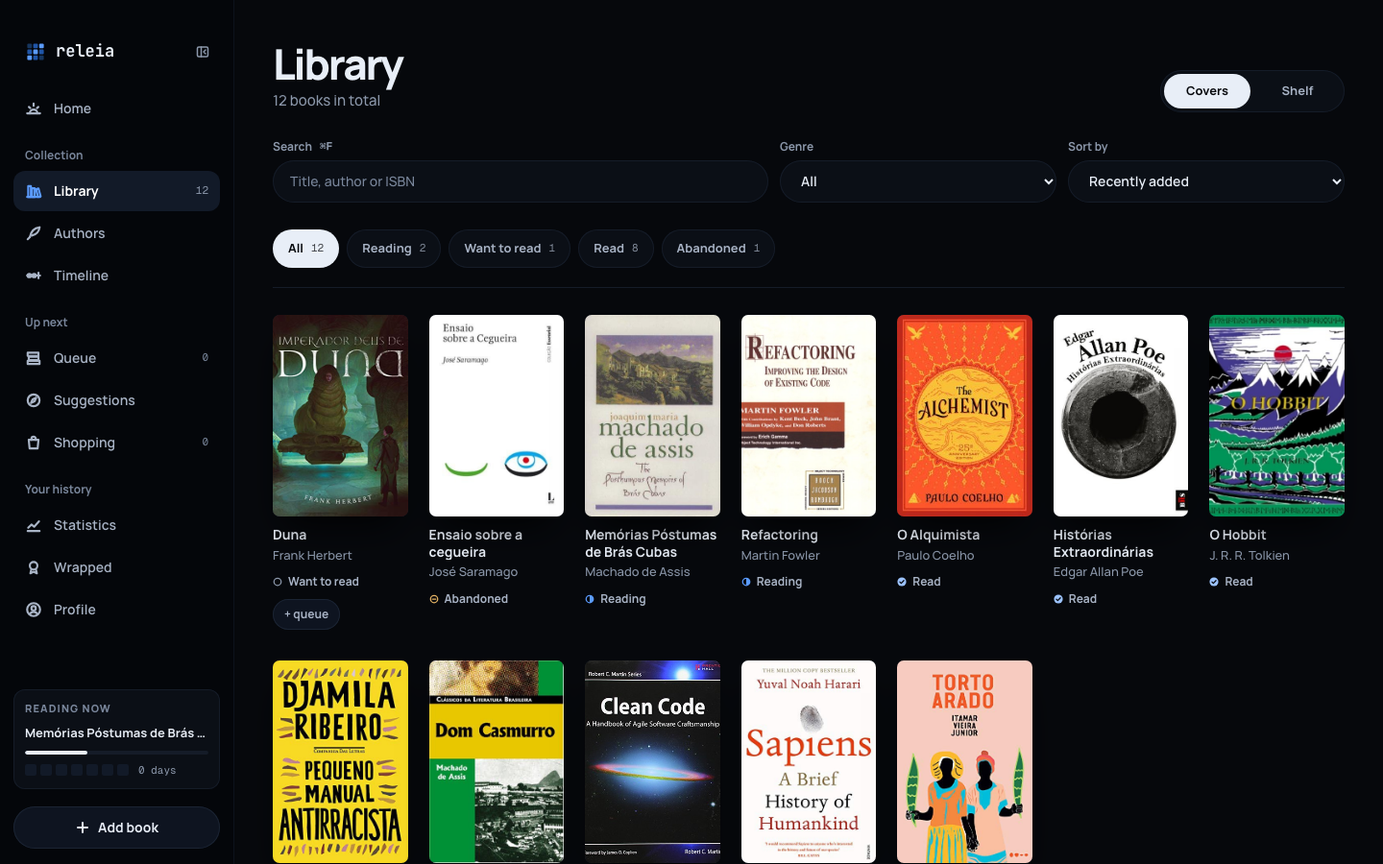
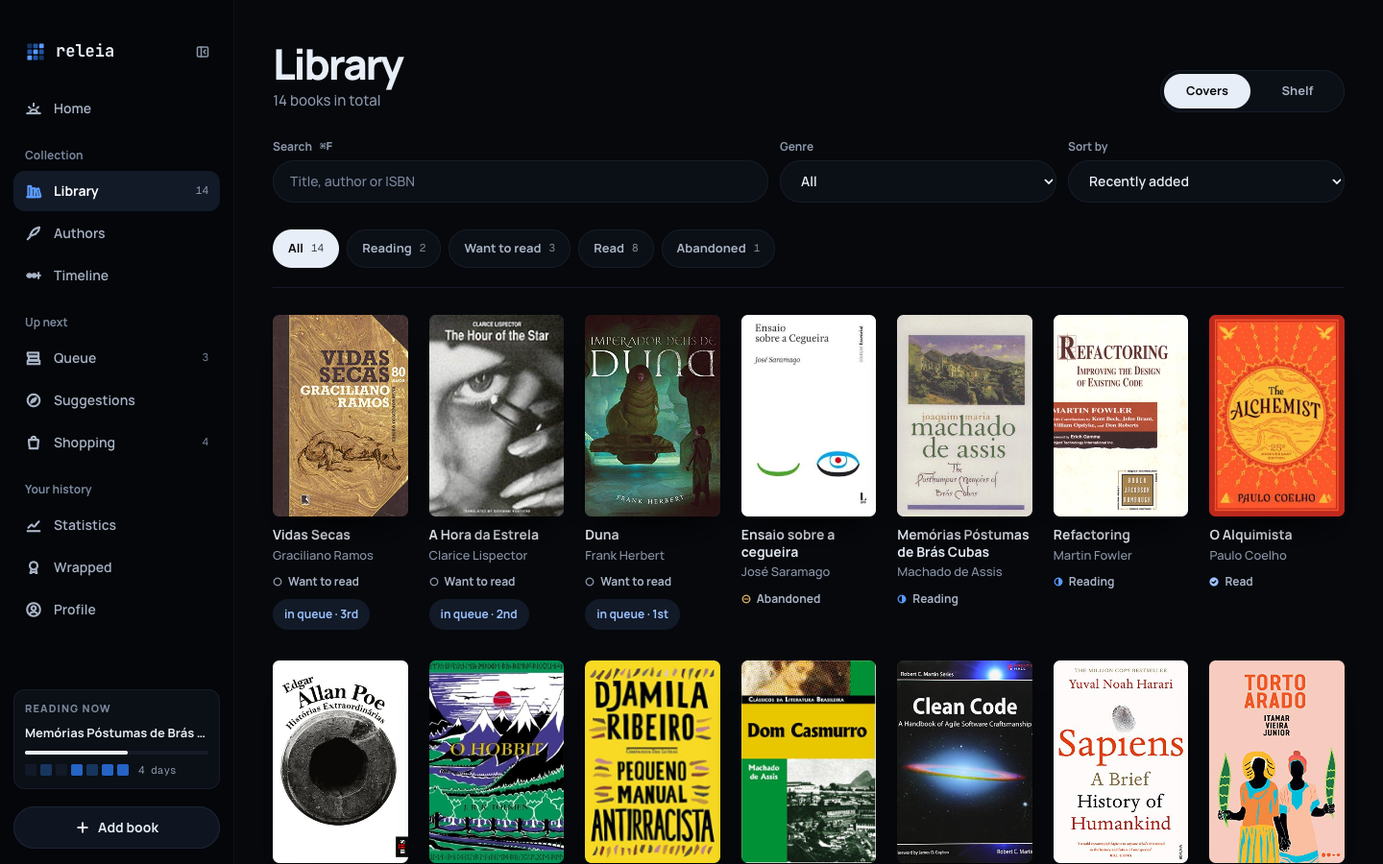
docs: refresh the readmes and screenshots
Claude-Session: https://claude.ai/code/session_01CkT8mSgpEoopELoz4qsgHy

diff --git a/README.pt-BR.md b/README.pt-BR.md
@@ -17,51 +17,55 @@
 </p>
 
 <p align="center">
-  <a href="README.md">English</a> · Português
+  <a href="README.md">English</a> · Português · <a href="https://enzobreisc.github.io/releia/">Demonstração online</a>
 </p>
 
 ![Demonstração do releia: buscar um livro, adicioná-lo à biblioteca, ver a estante e abrir as estatísticas](docs/demo.gif)
 
+## Demonstração online
+
+**[Abrir a demonstração web](https://enzobreisc.github.io/releia/)**: a mesma interface rodando no navegador, com uma biblioteca de exemplo e sem nada para instalar. Também tem layout de celular para telas estreitas.
+
+- Os fluxos principais funcionam: biblioteca e estantes, adicionar livros, sessões de leitura, anotações, estatísticas, linha do tempo, fila, lista de compras e sugestões. As sugestões de exemplo já vêm prontas.
+- Sua biblioteca fica no armazenamento local deste navegador e nunca é enviada a um servidor; "Restaurar dados" traz a biblioteca de exemplo de volta. As buscas de livros ainda vão do navegador para a Open Library e a BrasilAPI.
+- Algumas coisas só funcionam no app: a janela da barra de menu, o registro pelo celular via Tailscale, a ordenação com IA local, as buscas no Google Books e a consulta de preços.
+- Como funciona: a demonstração reaproveita as páginas React de `resources/js`. Os presenters do Laravel foram portados para TypeScript (`demo/src/presenters`) e conferidos contra páginas de referência exportadas do app em PHP, e os fluxos do usuário (adicionar, ler, comprar, desfazer) são reproduzidos a partir de cenários gravados no app. Detalhes em [demo/README.md](demo/README.md) (em inglês).
+
 ## Funcionalidades
 
-- **Adicione livros em segundos** por ISBN ou título: metadados e capas vêm da Open Library, do Google Books e da BrasilAPI, e ficam em cache local.
-- **Registre sessões de leitura** pela janela principal ou por uma janela na barra de menu, aberta com um atalho global (`⌘⇧L`), sem sair do que você está fazendo.
+- **Adicione livros em segundos** por ISBN ou título: metadados e capas vêm da Open Library, do Google Books e da BrasilAPI, e ficam em cache local. Uma capa também pode ser tirada de um link de produto da Amazon.
+- **Registre sessões de leitura** pela janela principal ou por uma janela na barra de menu, aberta com um atalho global (`⌘⇧L`, por padrão), sem sair do que você está fazendo.
 - **Registre pelo celular**: o mesmo registro rápido é instalado na tela de início como web app e fala com o Mac pelo [Tailscale](https://tailscale.com), usando o mesmo banco, com um widget na tela de bloqueio que conta a sessão em andamento ([configuração](docs/mobile-quick-log.md)).
 - **Biblioteca** em grade de capas ou numa estante de prateleiras nomeadas: uma configuração em etapas separa os livros por editora, autor, gênero ou série (vários grupos podem dividir uma prateleira) e mostra uma prévia para aprovar. As lombadas partem da capa real da edição, com um visual por editora, os livros novos entram na prateleira do seu grupo, e dá para reorganizar prateleiras e livros à mão.
 - **Página do livro** com todas as leituras, suas sessões, notas em Markdown e uma resenha por leitura; releituras são registradas separadamente.
 - **Estatísticas**: livros e páginas por mês, ritmo, previsão da meta anual, gêneros e autores mais lidos e um calendário de leitura.
 - **Wrapped**: um resumo do ano que pode ser exportado como imagem.
-- **Fila, lista de compras e sugestões**: planeje a próxima leitura, acompanhe o menor preço de uma edição desejada e receba sugestões, cada uma com o motivo, a partir dos livros que você avaliou bem, dos que quer ler e da lista de compras, ou busque qualquer autor, título ou assunto.
+- **Fila, lista de compras e sugestões**: planeje a próxima leitura, acompanhe o menor preço de uma edição desejada no Estante Virtual e receba sugestões, cada uma com o motivo, a partir dos livros que você avaliou bem, dos que quer ler e da lista de compras, ou busque qualquer autor, título ou assunto.
 - **Autores e linha do tempo**: estatísticas de leitura por autor, com fotos da Open Library ou da Wikipedia, e uma linha do tempo das leituras por ano.
 - **Interface bilíngue** em português e inglês, incluindo datas, números e valores.
 - **Offline primeiro**: tudo fica num banco SQLite local e as capas são baixadas para o disco, então o app continua funcionando sem conexão.
 
 ## Telas
 
-| Biblioteca                                  | Livro                               |
-| ------------------------------------------- | ----------------------------------- |
-| ![Biblioteca](docs/screenshots/library.png) | ![Livro](docs/screenshots/book.png) |
+| Biblioteca                                  | Estante                                     |
+| ------------------------------------------- | ------------------------------------------- |
+| ![Biblioteca](docs/screenshots/library.png) | ![Estante](docs/screenshots/bookcase.png)   |
+| ![Livro](docs/screenshots/book.png)         | ![Estatísticas](docs/screenshots/stats.png) |
+| ![Wrapped](docs/screenshots/wrapped.png)    | ![Início](docs/screenshots/home.png)        |
+| ![Perfil](docs/screenshots/profile.png)     |                                             |
 
-| Estatísticas                                | Wrapped                                  |
-| ------------------------------------------- | ---------------------------------------- |
-| ![Estatísticas](docs/screenshots/stats.png) | ![Wrapped](docs/screenshots/wrapped.png) |
-
-| Início                               | Perfil                                  |
-| ------------------------------------ | --------------------------------------- |
-| ![Início](docs/screenshots/home.png) | ![Perfil](docs/screenshots/profile.png) |
-
-<sub>As telas usam a biblioteca de demonstração (`php artisan db:seed --class=DemoSeeder`).</sub>
+<sub>As telas usam a biblioteca de exemplo da demo web (`demo/export/seed.php`).</sub>
 
 ## Destaques técnicos
 
 - **Um app Laravel entregue como app nativo.** O [NativePHP](https://nativephp.com) empacota o PHP e o app no Electron, então o mesmo código renderiza a interface em Inertia + React e controla a janela, o ícone da barra de menu e o atalho global ([`app/Native/QuickLog.php`](app/Native/QuickLog.php)).
 - **Uma tela, dois invólucros.** A página de registro rápido roda tanto na janela da barra de menu quanto como PWA instalável no celular: um agente `launchd` a serve pela tailnet usando o arquivo SQLite e o storage do app de desktop, e a página troca para controles do tamanho do toque quando não está dentro do app nativo.
 - **Busca de metadados atrás de um único contrato.** Cada fonte implementa [`MetadataProvider`](app/Services/BookLookup/MetadataProvider.php). O [`BookLookupService`](app/Services/BookLookupService.php) consulta a Open Library primeiro e usa a BrasilAPI e o Google Books para completar ou como reserva, com cache dos resultados; uma nova fonte é só uma classe. As edições das editoras que já estão na sua biblioteca aparecem e são sugeridas primeiro.
-- **Sugestões explicáveis.** O [`RecommendationService`](app/Services/RecommendationService.php) parte dos livros que você avaliou bem e do que você quer ler ou comprar, busca outras obras dos mesmos autores, mantém no máximo três por autor, traz de volta no máximo uma sugestão ignorada por busca e ordena os candidatos com um [`CandidateRanker`](app/Services/Recommendation/CandidateRanker.php) plugável. Cada sugestão traz o motivo, e as buscas têm limite de tempo e cache.
+- **Sugestões explicáveis.** O [`RecommendationService`](app/Services/RecommendationService.php) parte dos livros que você avaliou bem e do que você quer ler ou comprar, busca outras obras dos mesmos autores, mantém no máximo três obras do mesmo autor por busca, traz de volta no máximo uma sugestão ignorada por busca e ordena os candidatos com um [`CandidateRanker`](app/Services/Recommendation/CandidateRanker.php) plugável. Cada sugestão traz o motivo, e as buscas têm limite de tempo e cache.
 - **Controllers enxutos, serviços ricos.** As regras de negócio ficam nos serviços, e os presenters definem as props que cada página Inertia recebe.
 - **Páginas enxutas, componentes pequenos.** Cada página React só compõe componentes que ficam numa pasta com o nome dela; o estado fica em hooks `use-*` e os helpers puros em `lib/`, então nenhuma página vira um arquivo de mil linhas.
 - **i18n com o texto original como chave.** Os textos são escritos em português e traduzidos em [`lang/en.json`](lang/en.json); o type check falha se faltar uma chave no React, e um teste falha se faltar uma chave no PHP.
-- **Qualidade garantida no CI.** Testes de feature com Pest, PHPStan, Pint, lint e formatação com Vite+ e `tsc` rodam a cada push.
+- **Qualidade garantida no CI.** Pint, PHPStan, testes de feature com Pest, lint e formatação com Vite+ e `tsc` rodam a cada push para `main` e em cada pull request. A demonstração web é gerada e publicada no GitHub Pages a cada push para `main`.
 
 ## Stack
 
@@ -93,7 +97,7 @@ Sem chave, o Google Books divide uma cota diária entre todos e costuma recusar 
 
 ## Ordenação com IA local (experimental)
 
-As sugestões também podem ser ordenadas pela proximidade com os livros que você avaliou, usando embeddings calculados no seu Mac pelo [Ollama](https://ollama.com). É opcional, vem desligada e nada da sua biblioteca sai da máquina: o Ollama roda em `localhost`, e a Open Library continua recebendo apenas as buscas por autor e assunto.
+As sugestões também podem ser ordenadas pela proximidade com os livros que você avaliou, usando embeddings calculados no seu Mac pelo [Ollama](https://ollama.com). É opcional, vem desligada e nada da sua biblioteca sai da máquina: o Ollama roda em `localhost` por padrão, e a Open Library continua recebendo apenas as buscas por autor e assunto.
 
 ```bash
 brew install ollama
@@ -102,16 +106,6 @@ ollama pull nomic-embed-text
 ```
 
 Depois ligue **Ordenar com IA local** na página de Sugestões. É experimental: por enquanto muda pouco a ordem, e o ganho ainda não foi medido. Sem o Ollama, as sugestões continuam funcionando, ordenadas pela pontuação.
-
-## Demonstração web
-
-Uma versão no navegador, com uma biblioteca de exemplo, está publicada em https://enzobreisc.github.io/releia/.
-
-- Os fluxos principais funcionam no navegador: a biblioteca e as estantes, adicionar livros, sessões de leitura, anotações, estatísticas, linha do tempo, fila, lista de compras e sugestões.
-- Os dados ficam no seu navegador. Nada do que você adiciona é enviado.
-- A ordenação com IA local, as buscas no Google Books e a consulta de preços funcionam só no app.
-
-Como os dados da demonstração são exportados, testados e gerados está descrito em [demo/README.md](demo/README.md) (em inglês).
 
 ## Desenvolvimento
 
@@ -131,12 +125,18 @@ php artisan db:seed --class=DemoSeeder
 
 Em desenvolvimento (`APP_DEBUG=true`) o app nativo usa `database/nativephp.sqlite`, separado do `database/database.sqlite` usado pelo `composer dev`. Ele é criado e migrado na primeira execução; depois de criar migrations novas, rode `php artisan native:migrate`.
 
-| Comando                        | O que roda                         |
-| ------------------------------ | ---------------------------------- |
-| `composer test`                | Pint, PHPStan e Pest               |
-| `npm run check`                | lint e formatação do front-end     |
-| `npm run types:check`          | checagem de tipos do TypeScript    |
-| `php artisan native:build mac` | gera o `.app`, o `.dmg` e o `.zip` |
+| Comando                                   | O que roda                                                                                        |
+| ----------------------------------------- | ------------------------------------------------------------------------------------------------- |
+| `composer test`                           | Pint, PHPStan e Pest                                                                              |
+| `npm run check`                           | lint e formatação do front-end                                                                    |
+| `npm run types:check`                     | checagem de tipos do TypeScript                                                                   |
+| `php artisan native:build mac`            | gera o `.app`, o `.dmg` e o `.zip`                                                                |
+| `npm run demo:test`                       | testes da demonstração web contra as páginas de referência (rode antes `bash demo/export/run.sh`) |
+| `npm run demo:build`                      | gera a demonstração web em `dist-demo/`                                                           |
+| `php artisan releia:suggestions`          | busca sugestões novas                                                                             |
+| `php artisan releia:embed`                | calcula os vetores da ordenação com IA local (precisa do Ollama)                                  |
+| `php artisan releia:lookup "…"`           | busca metadados de um livro sem salvar                                                            |
+| `php artisan releia:fill-shopping-prices` | busca os preços da lista de compras                                                               |
 
 ## Estrutura
 
@@ -148,14 +148,18 @@ app/
   Models/               Book, Reading, ReadingSession, Note…
   Native/               janela da barra de menu e atalho global
   Services/             regras de domínio: busca, leituras, estatísticas, sugestões…
+    Ai/                 embeddings locais (Ollama) para ordenar as sugestões
     BookLookup/         fontes de metadados (Open Library, Google Books, BrasilAPI)
+    PriceLookup/        preços da lista de compras (Estante Virtual)
     Recommendation/     ordenação das sugestões
+  Console/Commands/     releia:suggestions, releia:embed, releia:lookup…
 resources/js/
   pages/                uma página Inertia por tela, enxuta
   components/           UI compartilhada, mais uma pasta por página (book/, stats/…)
   hooks/                estado e efeitos extraídos dos componentes
   lib/                  helpers puros: formatação, datas, rotas, i18n
 lang/en.json            traduções para inglês
+demo/                   demonstração web: dados de exemplo, páginas de referência, casca do navegador
 tests/Feature/          testes de comportamento por funcionalidade
 ```
 

diff --git a/README.md b/README.md
@@ -17,51 +17,55 @@
 </p>
 
 <p align="center">
-  English · <a href="README.pt-BR.md">Português</a>
+  English · <a href="README.pt-BR.md">Português</a> · <a href="https://enzobreisc.github.io/releia/">Live demo</a>
 </p>
 
 ![releia demo: search a book, add it to the library, browse the shelf and open the statistics](docs/demo.gif)
 
+## Live demo
+
+**[Try the web demo](https://enzobreisc.github.io/releia/)**: the same interface running in your browser against a sample library, with nothing to install. It also has a phone layout for narrow screens.
+
+- The main flows work: library and shelves, adding books, reading sessions, notes, stats, timeline, queue, shopping list and suggestions. The sample suggestions come ready-made.
+- Your library stays in your browser's local storage and is never sent to a server; "Restore data" brings the sample library back. Book searches still go from the browser to Open Library and BrasilAPI.
+- Some things only work in the app: the menu bar window, the phone quick log over Tailscale, local AI ordering, Google Books lookups and price lookups.
+- How it works: the demo reuses the React pages from `resources/js`. The Laravel presenters are ported to TypeScript (`demo/src/presenters`) and checked against golden pages exported from the PHP app, and the user flows (add, read, shop, undo) are replayed from scenarios recorded from the app. Details in [demo/README.md](demo/README.md).
+
 ## Features
 
-- **Add books in seconds** by ISBN or title: metadata and covers come from Open Library, Google Books and BrasilAPI, and are cached locally.
-- **Log reading sessions** from the main window or from a menu bar window opened by a global shortcut (`⌘⇧L`), without leaving what you are doing.
+- **Add books in seconds** by ISBN or title: metadata and covers come from Open Library, Google Books and BrasilAPI, and are cached locally. A cover can also be taken from an Amazon product link.
+- **Log reading sessions** from the main window or from a menu bar window opened by a global shortcut (`⌘⇧L` by default), without leaving what you are doing.
 - **Log from your phone**: the same quick log installs on the home screen as a web app and talks to the Mac over [Tailscale](https://tailscale.com), sharing its database, with a lock screen widget that counts the current session ([setup](docs/mobile-quick-log.md)).
 - **Library** as a cover grid or a bookcase of named shelves: a step-by-step setup splits the books by publisher, author, genre or series (several groups can share a shelf) and shows a preview to approve. Spines are drawn from the real edition's cover with a look per publisher, new books join the shelf of their group, and shelves and books can still be rearranged by hand.
 - **Book page** with every reading, its sessions, Markdown notes and a review per reading; rereads are tracked separately.
 - **Statistics**: books and pages per month, pace, yearly goal forecast, top genres and authors, and a reading calendar heat map.
 - **Wrapped**: a yearly summary that can be exported as an image.
-- **Queue, shopping list and suggestions**: plan what to read next, track the lowest price of a wanted edition, and get suggestions, each with its reason, from the books you rated highly, the ones you want to read and your shopping list, or search any author, title or subject.
+- **Queue, shopping list and suggestions**: plan what to read next, track the lowest price of a wanted edition on Estante Virtual, and get suggestions, each with its reason, from the books you rated highly, the ones you want to read and your shopping list, or search any author, title or subject.
 - **Authors and timeline**: per-author reading stats with photos from Open Library or Wikipedia, and a timeline of readings by year.
 - **Bilingual interface** in Portuguese and English, including dates, numbers and money.
 - **Offline first**: everything lives in a local SQLite database and covers are downloaded to disk, so the app keeps working without a connection.
 
 ## Screenshots
 
-| Library                                  | Book                               |
-| ---------------------------------------- | ---------------------------------- |
-| ![Library](docs/screenshots/library.png) | ![Book](docs/screenshots/book.png) |
+| Library                                  | Bookcase                                   |
+| ---------------------------------------- | ------------------------------------------ |
+| ![Library](docs/screenshots/library.png) | ![Bookcase](docs/screenshots/bookcase.png) |
+| ![Book](docs/screenshots/book.png)       | ![Statistics](docs/screenshots/stats.png)  |
+| ![Wrapped](docs/screenshots/wrapped.png) | ![Home](docs/screenshots/home.png)         |
+| ![Profile](docs/screenshots/profile.png) |                                            |
 
-| Statistics                                | Wrapped                                  |
-| ----------------------------------------- | ---------------------------------------- |
-| ![Statistics](docs/screenshots/stats.png) | ![Wrapped](docs/screenshots/wrapped.png) |
-
-| Home                               | Profile                                  |
-| ---------------------------------- | ---------------------------------------- |
-| ![Home](docs/screenshots/home.png) | ![Profile](docs/screenshots/profile.png) |
-
-<sub>Screenshots use the bundled demo library (`php artisan db:seed --class=DemoSeeder`).</sub>
+<sub>Screenshots use the sample library of the web demo (`demo/export/seed.php`).</sub>
 
 ## Technical highlights
 
 - **A Laravel app shipped as a native desktop app.** [NativePHP](https://nativephp.com) bundles PHP and the app into Electron, so the same codebase renders an Inertia + React UI, owns the window, the menu bar icon and the global shortcut ([`app/Native/QuickLog.php`](app/Native/QuickLog.php)).
 - **One screen, two shells.** The quick log page runs both in the menu bar window and as an installable PWA on the phone: a `launchd` agent serves it over the tailnet against the desktop app's SQLite file and storage, and the page switches to touch-sized controls when it is not inside the native app.
 - **Metadata lookup behind a single contract.** Each source implements [`MetadataProvider`](app/Services/BookLookup/MetadataProvider.php). [`BookLookupService`](app/Services/BookLookupService.php) asks Open Library first and lets BrasilAPI and Google Books fill gaps or act as fallbacks, caching the results, so a new source is one class. Editions from the publishers already in your library are listed and suggested first.
-- **Explainable suggestions.** [`RecommendationService`](app/Services/RecommendationService.php) starts from your highly rated books and from what you want to read or buy, looks for other works by the same authors, keeps at most three per author, brings back at most one ignored suggestion per search, and ranks candidates through a pluggable [`CandidateRanker`](app/Services/Recommendation/CandidateRanker.php). Every suggestion carries the reason it was made, and searches are time-boxed and cached.
+- **Explainable suggestions.** [`RecommendationService`](app/Services/RecommendationService.php) starts from your highly rated books and from what you want to read or buy, looks for other works by the same authors, keeps at most three works by the same author per search, brings back at most one ignored suggestion per search, and ranks candidates through a pluggable [`CandidateRanker`](app/Services/Recommendation/CandidateRanker.php). Every suggestion carries the reason it was made, and searches are time-boxed and cached.
 - **Thin controllers, rich services.** Business rules live in services, and presenters shape the props each Inertia page receives.
 - **Thin pages, small components.** Each React page only composes components that live in a folder named after it; state sits in `use-*` hooks and pure helpers in `lib/`, so no page is a thousand-line file.
 - **i18n where the key is the source text.** Strings are written in Portuguese and translated in [`lang/en.json`](lang/en.json); the type check fails on a missing React key and a feature test fails on a missing PHP key.
-- **Quality gates in CI.** Pest feature tests, PHPStan, Pint, Vite+ lint and format, and `tsc` run on every push.
+- **Quality gates in CI.** Pint, PHPStan, Pest feature tests, Vite+ lint and format, and `tsc` run on every push to `main` and on every pull request. The web demo is built and deployed to GitHub Pages on each push to `main`.
 
 ## Stack
 
@@ -93,7 +97,7 @@ Without a key, Google Books shares a daily quota among everyone and often refuse
 
 ## Local AI ordering (experimental)
 
-Suggestions can also be ordered by how close they are to the books you rated, using embeddings computed on your Mac by [Ollama](https://ollama.com). It is optional, off by default, and nothing about your library leaves the machine: Ollama runs on `localhost`, while Open Library keeps receiving only the author and subject searches.
+Suggestions can also be ordered by how close they are to the books you rated, using embeddings computed on your Mac by [Ollama](https://ollama.com). It is optional, off by default, and nothing about your library leaves the machine: Ollama runs on `localhost` by default, while Open Library keeps receiving only the author and subject searches.
 
 ```bash
 brew install ollama
@@ -102,16 +106,6 @@ ollama pull nomic-embed-text
 ```
 
 Then turn on **Sort with local AI** on the Suggestions page. It is experimental: so far it changes the order only slightly, and its benefit has not been measured. Without Ollama, suggestions keep working and are ordered by score.
-
-## Web demo
-
-A browser version with a sample library is published at https://enzobreisc.github.io/releia/.
-
-- The main flows work in the browser: the library and shelves, adding books, reading sessions, notes, stats, timeline, queue, shopping list and suggestions.
-- Data stays in your browser. Nothing you add is uploaded.
-- Local AI ordering, Google Books lookups and price lookups only work in the app.
-
-How the demo data is exported, tested and built is described in [demo/README.md](demo/README.md).
 
 ## Development
 
@@ -131,12 +125,18 @@ php artisan db:seed --class=DemoSeeder
 
 In development (`APP_DEBUG=true`) the native app uses `database/nativephp.sqlite`, separate from the `database/database.sqlite` used by `composer dev`. It is created and migrated on first launch; after adding migrations, run `php artisan native:migrate`.
 
-| Command                        | What it runs                         |
-| ------------------------------ | ------------------------------------ |
-| `composer test`                | Pint, PHPStan and Pest               |
-| `npm run check`                | front-end lint and formatting        |
-| `npm run types:check`          | TypeScript type check                |
-| `php artisan native:build mac` | builds the `.app`, `.dmg` and `.zip` |
+| Command                                   | What it runs                                                                  |
+| ----------------------------------------- | ----------------------------------------------------------------------------- |
+| `composer test`                           | Pint, PHPStan and Pest                                                        |
+| `npm run check`                           | front-end lint and formatting                                                 |
+| `npm run types:check`                     | TypeScript type check                                                         |
+| `php artisan native:build mac`            | builds the `.app`, `.dmg` and `.zip`                                          |
+| `npm run demo:test`                       | web demo tests against the golden pages (run `bash demo/export/run.sh` first) |
+| `npm run demo:build`                      | builds the web demo into `dist-demo/`                                         |
+| `php artisan releia:suggestions`          | searches new suggestions                                                      |
+| `php artisan releia:embed`                | computes the vectors for local AI ordering (needs Ollama)                     |
+| `php artisan releia:lookup "…"`           | searches book metadata without saving it                                      |
+| `php artisan releia:fill-shopping-prices` | looks up prices for the shopping list                                         |
 
 ## Project structure
 
@@ -148,14 +148,18 @@ app/
   Models/               Book, Reading, ReadingSession, Note…
   Native/               menu bar window and global shortcut
   Services/             domain logic: lookup, readings, stats, suggestions…
+    Ai/                 local embeddings (Ollama) for ordering suggestions
     BookLookup/         metadata providers (Open Library, Google Books, BrasilAPI)
+    PriceLookup/        shopping list prices (Estante Virtual)
     Recommendation/     suggestion ranking
+  Console/Commands/     releia:suggestions, releia:embed, releia:lookup…
 resources/js/
   pages/                one Inertia page per screen, kept thin
   components/           shared UI, plus one folder per page (book/, stats/…)
   hooks/                state and side effects extracted from components
   lib/                  pure helpers: formatting, dates, routes, i18n
 lang/en.json            English translations
+demo/                   web demo: sample data, golden pages, browser shell
 tests/Feature/          behavior tests per feature
 ```
 
